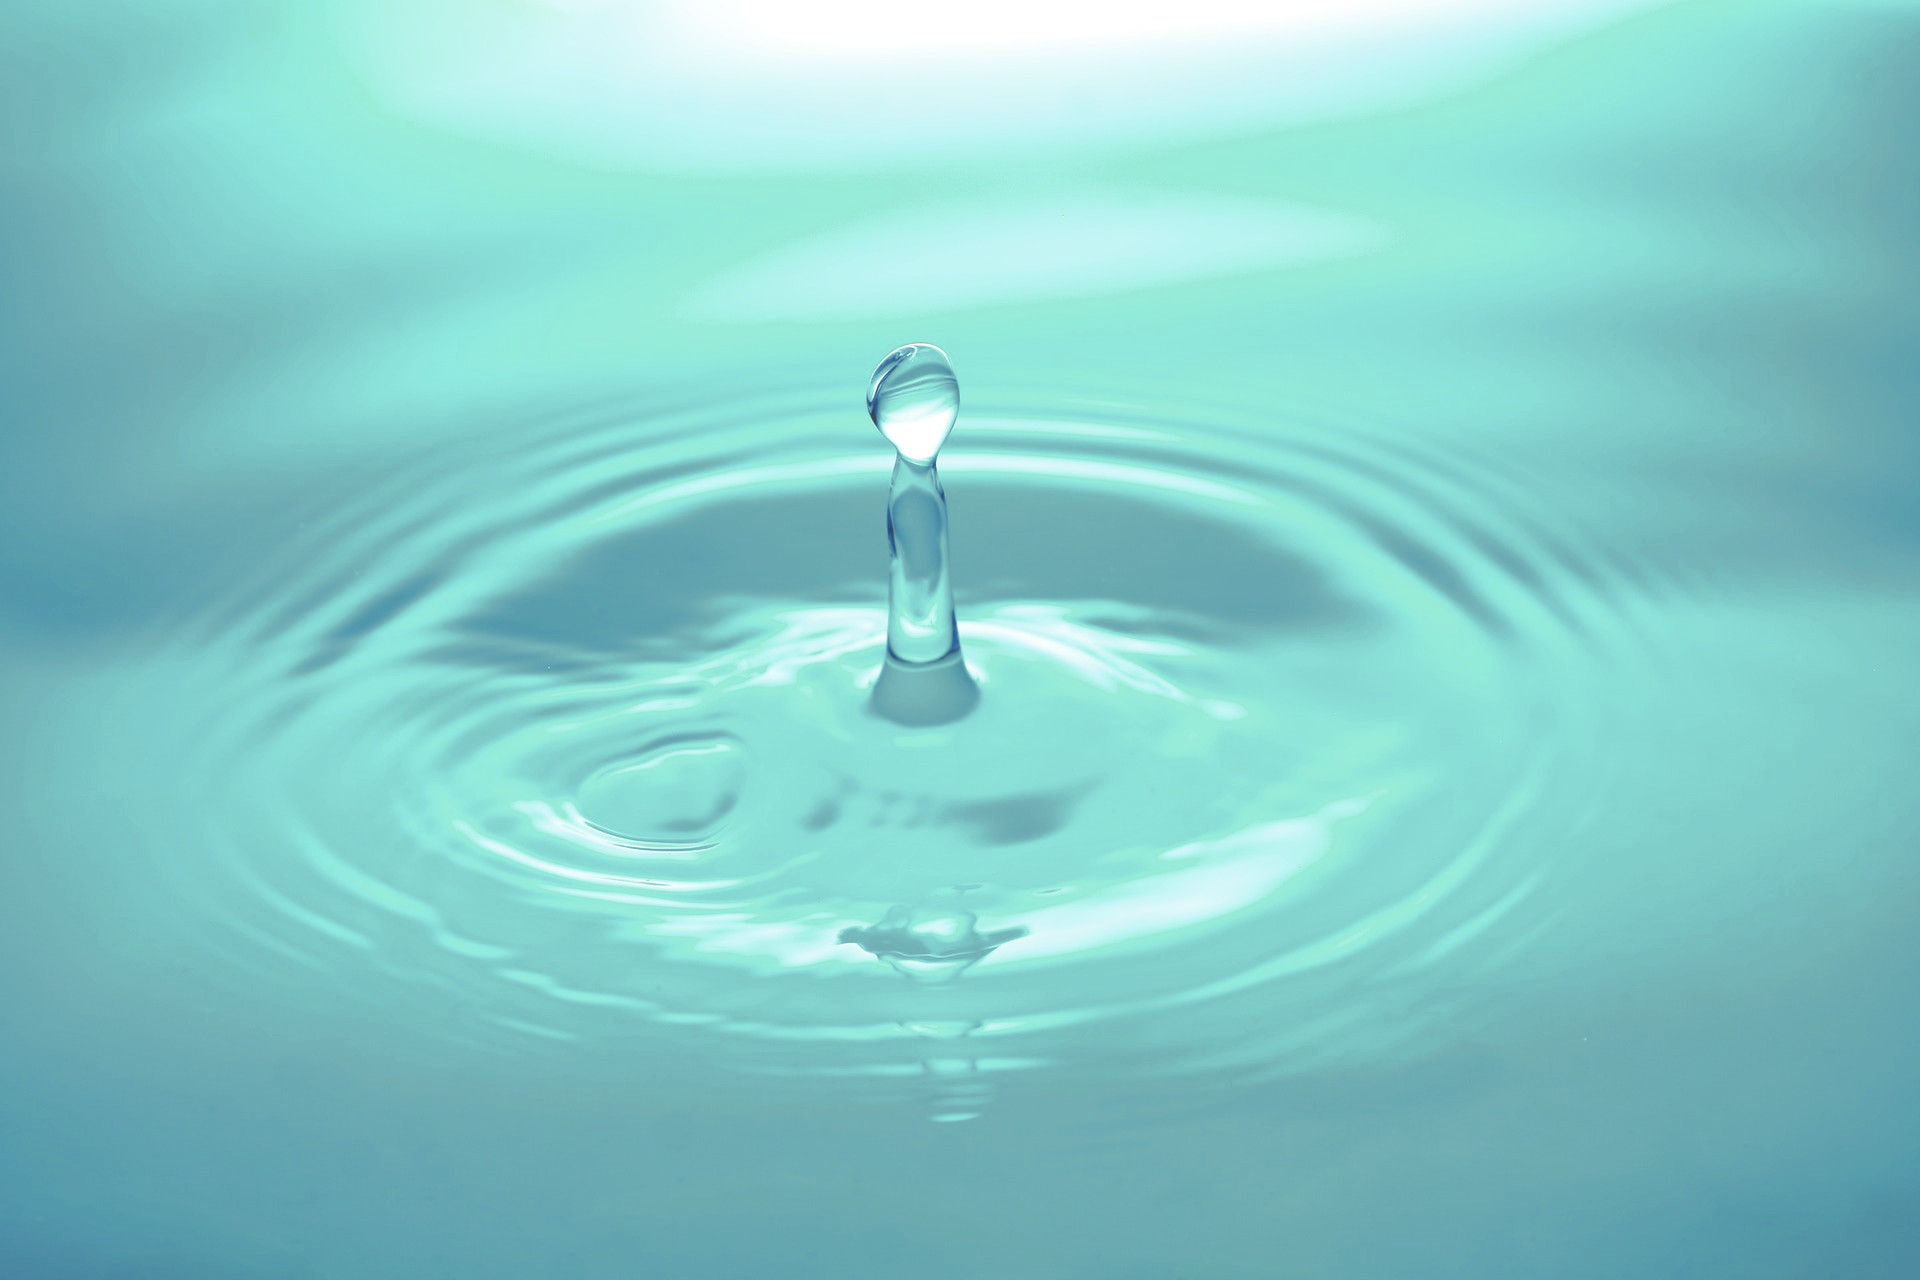
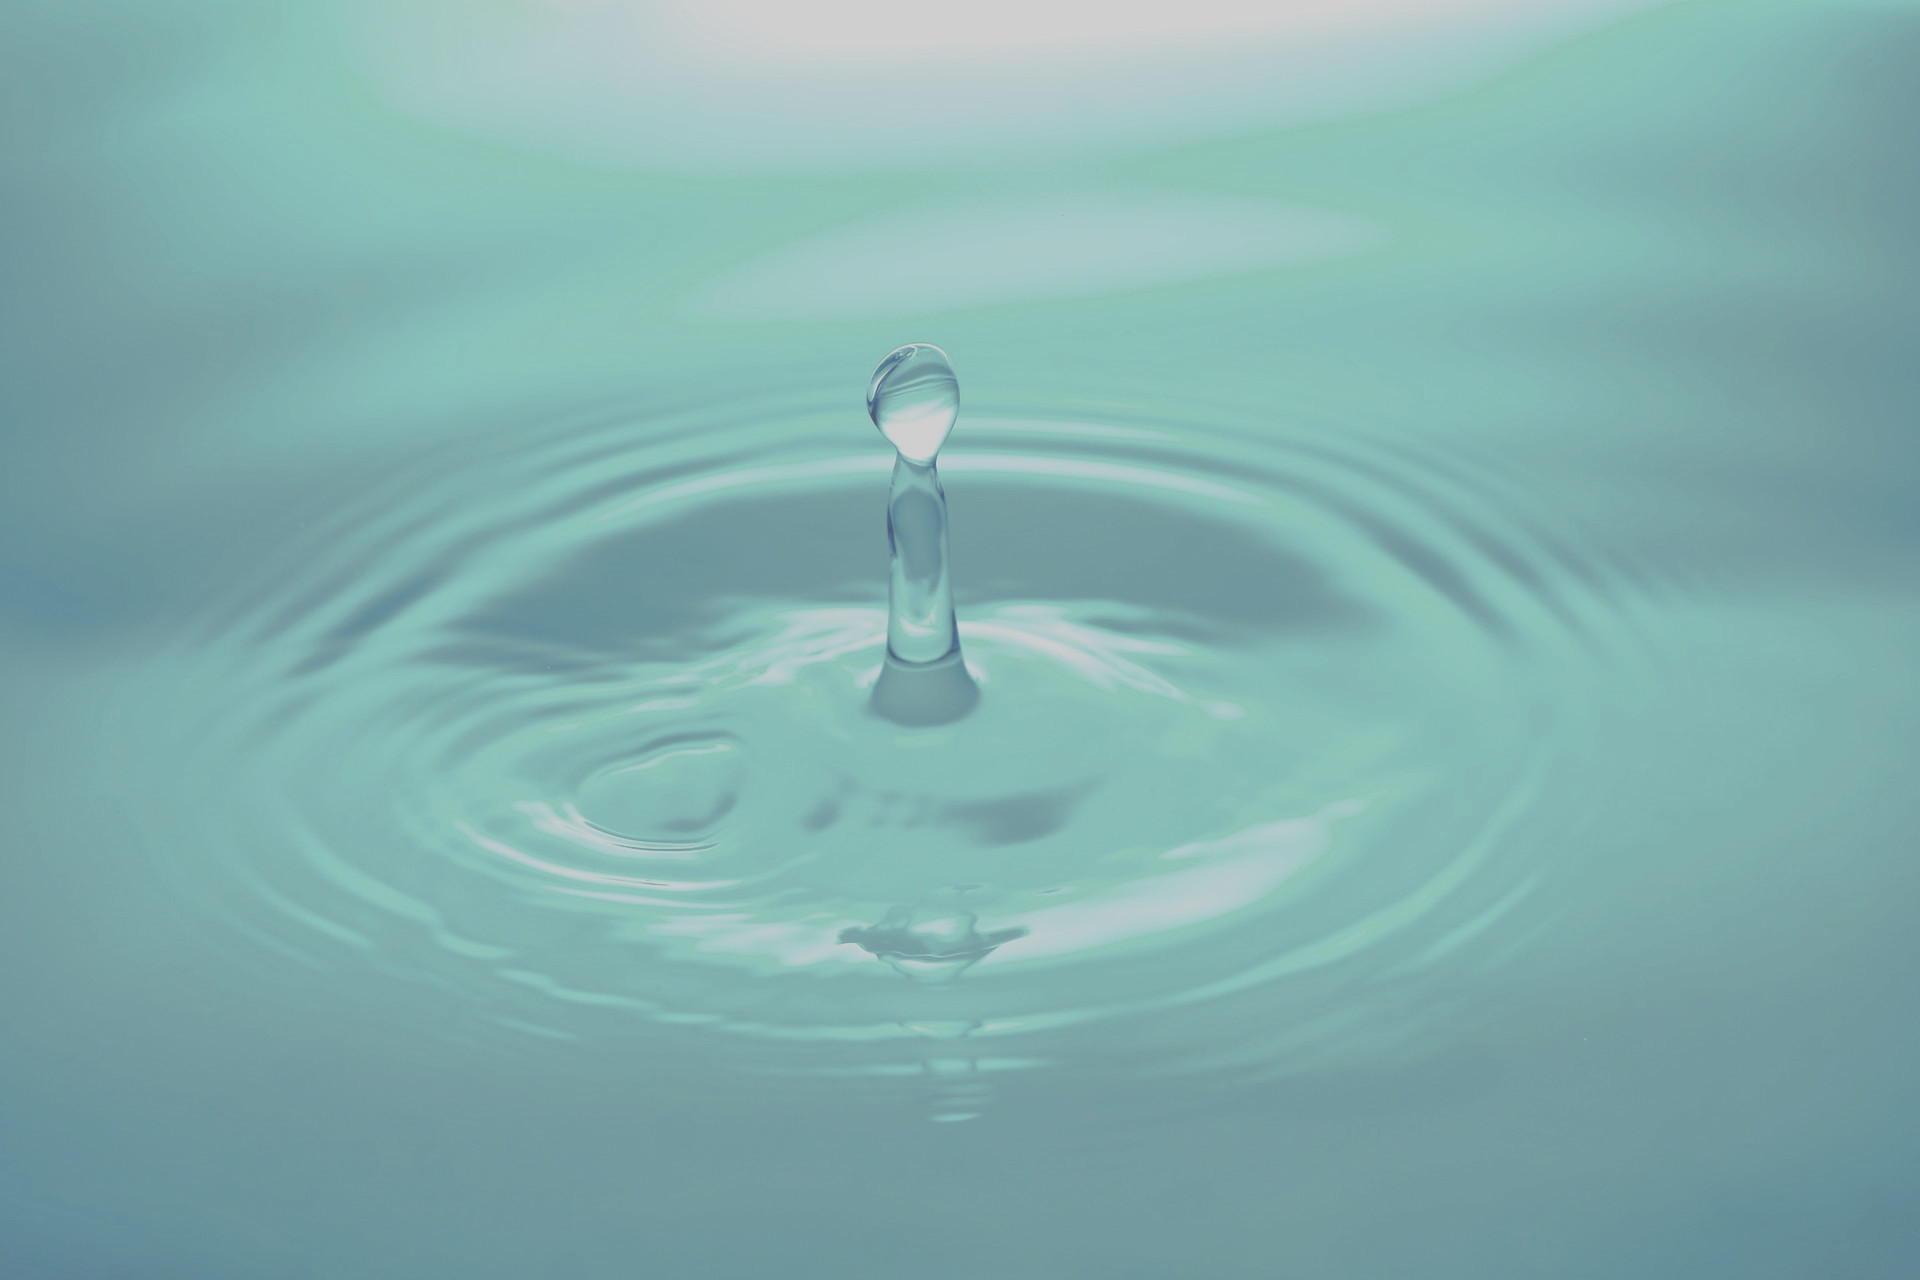
Theme Halloween 1.73, Light alt. Blue 1.52.

diff --git a/src/themes/light-alt-blue/theme.css b/src/themes/light-alt-blue/theme.css
@@ -79,7 +79,7 @@ html {
 }
 
 .backgroundContainer.withBackdrop {
-   background-color: rgba(220, 242, 248, .8);
+   background-color: rgba(220, 242, 248, .65);
 }
 
 .backgroundContainer.withThemeBackdrop {
@@ -89,7 +89,7 @@ html {
 .dialog,
 .nowPlayingPlaylist,
 .nowPlayingContextMenu {
-    background-color: #d0effc;
+    background-color: #c1e2e3;
 }
 
 .emby-scrollbuttons .paper-icon-button-light {
@@ -728,6 +728,7 @@ select option:selected {
 
 .backdropImage {
     background-color: rgb(220, 220, 220) !important;
+	background-position: 0 0;
 	top: 3.3em;
 }
 
@@ -870,7 +871,7 @@ fieldset {
 }
 
 .fieldDescription {
-	color: #cce3e4;
+	color: #d9e9ea;
 	font-style: italic;
 	font-size: 85%;
 }
@@ -987,7 +988,7 @@ div[data-role="controlgroup"] a.ui-btn-active {
 .button-delete,
 .button-submit {
 	background-color: rgb(36, 136, 153);
-	box-shadow: 0px 0px 8px #609295;
+	box-shadow: 0px 0px 4px #6e8788;
 	color: rgb(193, 206, 212) !important;
 }
 
@@ -995,6 +996,7 @@ div[data-role="controlgroup"] a.ui-btn-active {
 .button-submit:hover:not(:disabled) {
 	color: rgba(255, 255, 255, 0.8) !important;
 	background-color: rgba(92, 151, 179, 0.8) !important;
+	box-shadow: 0px 0px 8px #829d9e;
 	transform: scale(1.2);
 }
 
@@ -1002,6 +1004,7 @@ div[data-role="controlgroup"] a.ui-btn-active {
 .button-submit:focus {
 	color: white !important;
 	background-color: rgba(123, 152, 184, 0.8) !important;
+	box-shadow: 0px 0px 8px #829d9e;
 	transform: scale(1.2);
 }
 
@@ -1009,6 +1012,7 @@ div[data-role="controlgroup"] a.ui-btn-active {
 .button-submit:active {
 	background-color: rgba(255, 232, 232, 0.8) !important;
 	color: rgba(255, 255, 255, 1) !important;
+	box-shadow: 0px 0px 8px #829d9e;
 	animation-name: click;
 	animation-duration: .15s;
 	transform: scale(1.2);
@@ -1017,7 +1021,7 @@ div[data-role="controlgroup"] a.ui-btn-active {
 .button-cancel,
 .cancel {
 	background-color: rgb(61, 179, 163);
-	box-shadow: 0px 0px 8px #609295;
+	box-shadow: 0px 0px 4px #6e8788;
 	color: rgb(226, 237, 205) !important;
 }
 
@@ -1025,6 +1029,7 @@ div[data-role="controlgroup"] a.ui-btn-active {
 .cancel:hover:not(:disabled) {
 	color: rgba(255, 255, 255, 0.8) !important;
 	background-color: rgba(137, 208, 188, 0.8) !important;
+	box-shadow: 0px 0px 8px #829d9e;
 	transform: scale(1.2);
 }
 
@@ -1032,6 +1037,7 @@ div[data-role="controlgroup"] a.ui-btn-active {
 .cancel:focus {
 	color: white !important;
 	background-color: rgba(137, 208, 188, 0.8) !important;
+	box-shadow: 0px 0px 8px #829d9e;
 	transform: scale(1.2);
 }
 
@@ -1039,6 +1045,7 @@ div[data-role="controlgroup"] a.ui-btn-active {
 .cancel:active {
 	background-color: rgba(137, 208, 188, 0.8) !important;
 	color: rgba(255, 255, 255, 1) !important;
+	box-shadow: 0px 0px 8px #829d9e;
 	animation-name: click;
 	animation-duration: .15s;
 	transform: scale(1.2);
@@ -1046,25 +1053,28 @@ div[data-role="controlgroup"] a.ui-btn-active {
 
 .button-alt {
 	background-color: rgb(61, 179, 163);
-	box-shadow: 0px 0px 8px #609295;
+	box-shadow: 0px 0px 4px #6e8788;
 	color: rgb(226, 237, 205) !important;
 }
 
 .button-alt:hover:not(:disabled) {
 	color: rgba(255, 255, 255, 0.8) !important;
 	background-color: rgba(137, 208, 188, 0.8) !important;
+	box-shadow: 0px 0px 8px #829d9e;
 	transform: scale(1.2);
 }
 
 .button-alt:focus {
 	color: white !important;
 	background-color: rgba(137, 208, 188, 0.8) !important;
+	box-shadow: 0px 0px 8px #829d9e;
 	transform: scale(1.2);
 }
 
 .button-alt:active {
 	background-color: rgba(137, 208, 188, 0.8) !important;
-	color: rgba(255, 255, 255, 1) !important;
+	color: white !important;
+	box-shadow: 0px 0px 8px #829d9e;
 	animation-name: click;
 	animation-duration: .15s;
 	transform: scale(1.2);

diff --git a/src/themes/Halloween/theme.css b/src/themes/Halloween/theme.css
@@ -125,7 +125,7 @@ html {
 }
 
 .backgroundContainer.withBackdrop {
-    background-color: rgba(235, 129, 40, 0.85);
+    background-color: rgba(235, 129, 40, 0.65);
 }
 
 .backgroundContainer.withThemeBackdrop {
@@ -479,7 +479,7 @@ html {
 .emby-tab-button-active,
 .emby-tab-button-active:focus,
 .emby-tab-button-active:hover:not(:disabled) {
-	text-shadow: 0 0 4px #3e3a35, 0 0 6px #312f2c, 0 0 8px #b689f7, 0 0 16px #a391cd, 0 0 16px #eee2ff, 0 0 24px #caa8fc, 0 0 34px #caa8fc !important;
+	text-shadow: 0 0 4px #756b7d, 0 0 8px #e8e5ed, 0 0 16px #f7f4fa, 0 0 34px #caa8fc !important;
 	color: #282828;
 	transform: scale(1.3) !important;
 }
@@ -1157,23 +1157,22 @@ fieldset {
 
 .button-delete:hover:not(:disabled),
 .button-submit:hover:not(:disabled) {
-	color: #fff !important;
-	box-shadow: 0px 0px 8px #471e05;
+	color: #efaa6c !important;
+	box-shadow: 0px 0px 8px #9b651f;
 	transform: scale(1.2);
 }
 
 .button-delete:focus,
-.button-submit:focus,
-.raised:focus {
-	color: #fff !important;
-	box-shadow: 0px 0px 8px #471e05;
+.button-submit:focus {
+	color: #efaa6c !important;
+	box-shadow: 0px 0px 8px #9b651f;
 	transform: scale(1.2);
 }
 
 .button-delete:active,
 .button-submit:active {
-	color: white !important;
-	box-shadow: 0px 0px 8px #471e05;
+	color: #efaa6c !important;
+	box-shadow: 0px 0px 8px #9b651f;
 	animation-name: click;
 	animation-duration: .15s;
 	transform: scale(1.2);
@@ -1191,7 +1190,7 @@ fieldset {
 	color: rgba(211, 207, 225, 0.8) !important;
 	background-color: rgba(73, 78, 153, 0.8) !important;
 	transform: scale(1.2);
-	box-shadow: 0px 0px 8px #471e05;
+	box-shadow: 0px 0px 8px #9b651f;
 }
 
 .button-cancel:focus,
@@ -1199,7 +1198,7 @@ fieldset {
 	color: rgba(211, 207, 225, 0.8) !important;
 	background-color: rgba(73, 78, 153, 0.8) !important;
 	transform: scale(1.2);
-	box-shadow: 0px 0px 8px #471e05;
+	box-shadow: 0px 0px 8px #9b651f;
 }
 
 .button-cancel:active,
@@ -1207,7 +1206,7 @@ fieldset {
 	color: rgba(211, 207, 225, 0.8) !important;
 	background-color: rgba(73, 78, 153, 0.8) !important;
 	transform: scale(1.2);
-	box-shadow: 0px 0px 8px #471e05;
+	box-shadow: 0px 0px 8px #9b651f;
 	animation-name: click;
 	animation-duration: .15s;
 	transform: scale(1.2);
@@ -1216,27 +1215,27 @@ fieldset {
 .button-alt {
 	background-color: rgb(234, 175, 64);
 	box-shadow: 0px 0px 4px #663e0a;
-	color: rgb(36, 30, 15) !important;
+	color: rgb(242, 227, 198) !important;
 }
 
 .button-alt:hover:not(:disabled) {
-	color: #fbddb6 !important;
+	color: white !important;
 	background-color: rgba(242, 163, 12, 0.8) !important;
-	box-shadow: 0px 0px 8px #663e0a;
+	box-shadow: 0px 0px 8px #9b651f;
 	transform: scale(1.2);
 }
 
 .button-alt:focus {
-	color: #fbddb6 !important;
+	color: #885109 !important;
 	background-color: rgba(242, 163, 12, 0.8) !important;
-	box-shadow: 0px 0px 8px #663e0a;
+	box-shadow: 0px 0px 8px #9b651f;
 	transform: scale(1.2);
 }
 
 .button-alt:active {
-	color: #fbddb6 !important;
+	color: #885109 !important;
 	background-color: rgba(242, 163, 12, 0.8) !important;
-	box-shadow: 0px 0px 8px #663e0a;
+	box-shadow: 0px 0px 8px #9b651f;
 	transform: scale(1.2);
 	animation-name: click;
 	animation-duration: .15s;
